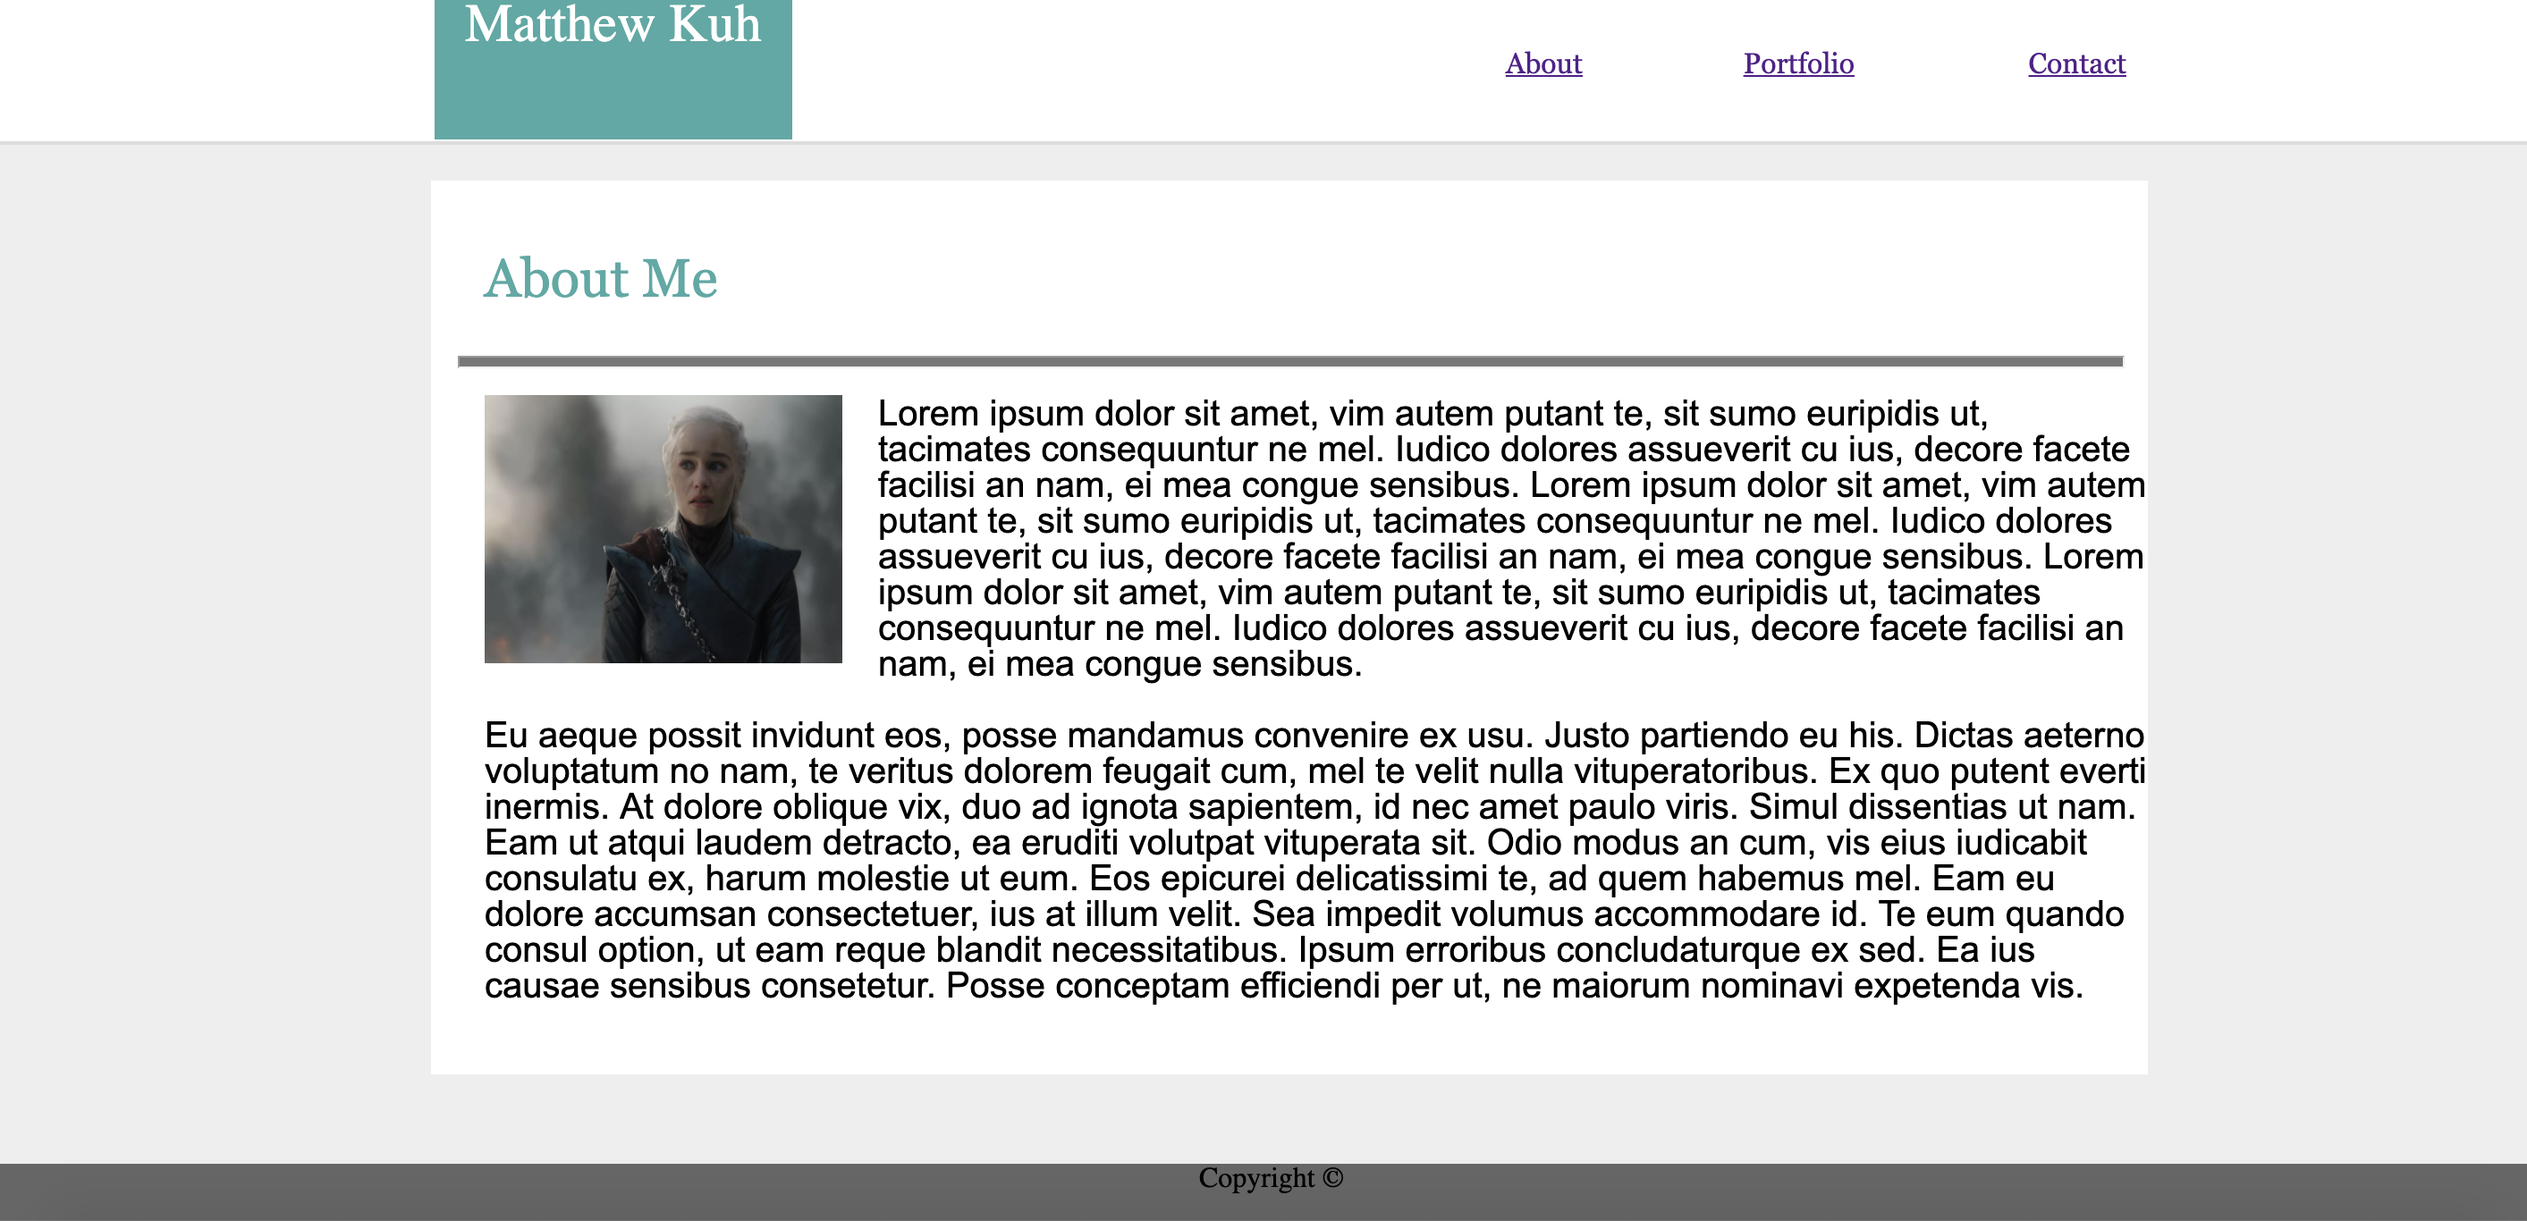
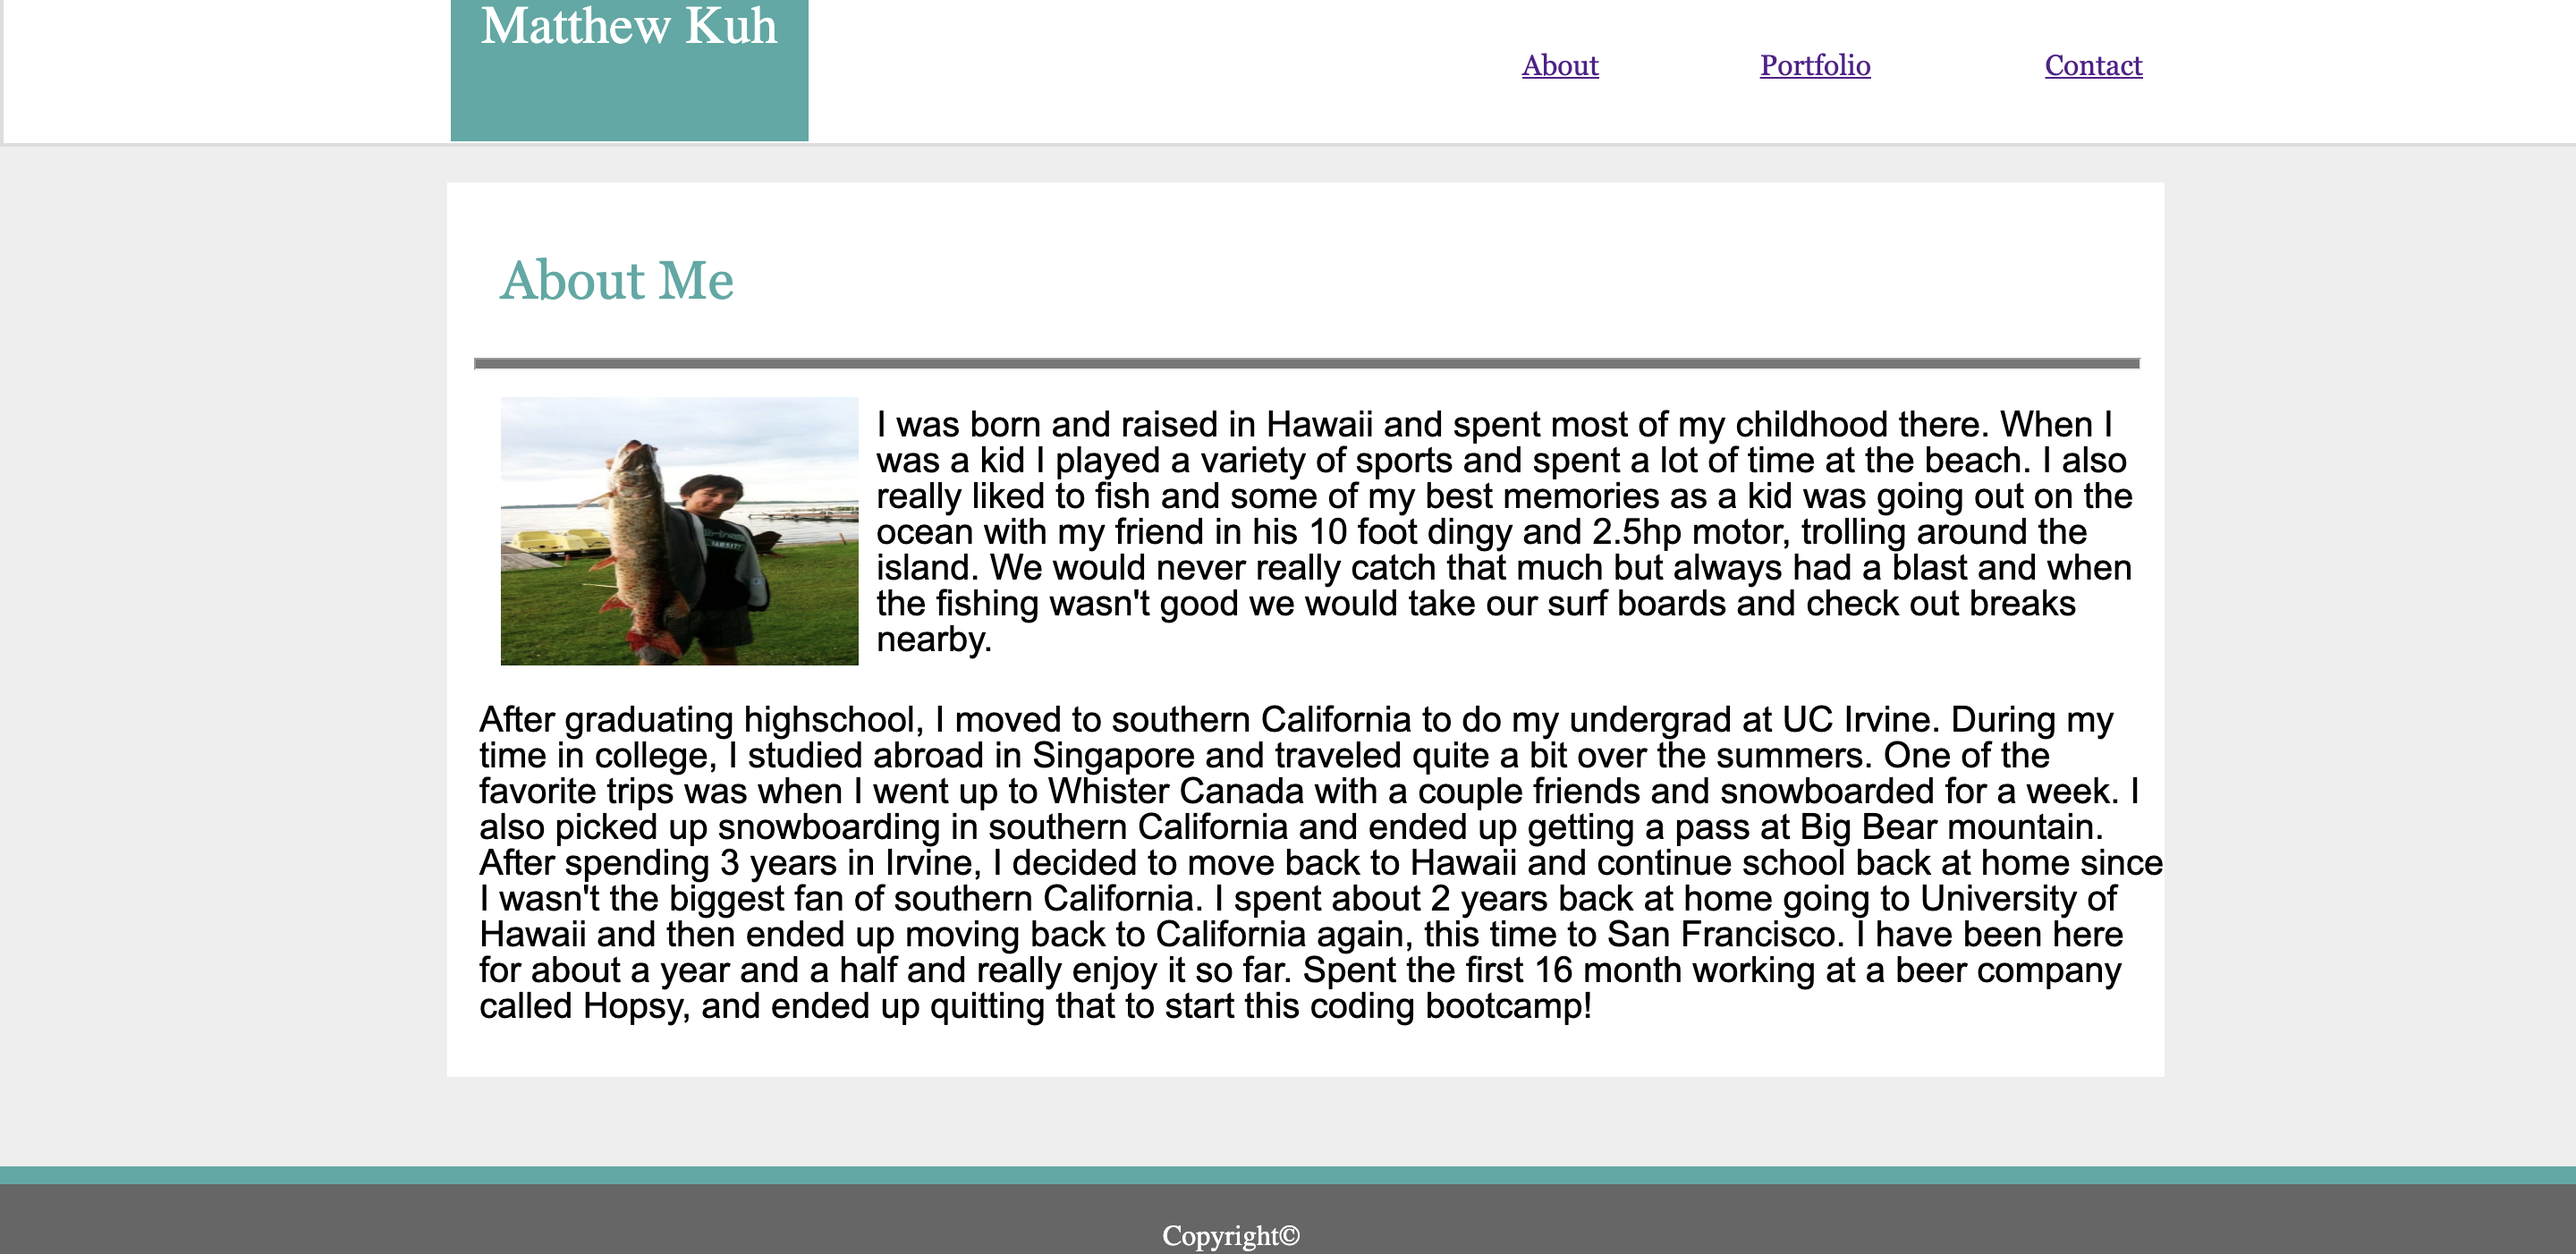
fix footer width

diff --git a/about.html b/about.html
@@ -51,7 +51,7 @@
         </p>  
 
         <p id="p2">
-            After graduating highschool, I moved to southern California to do my undergrad at UC Irvine.  During my time in college, I studied abroad in Singapore and traveled quite a bit over the summers.  One of the favorite trips was when I went up to Whister Canada with a couple friends and snowboarded for a week.  I also picked up snowboarding in southern California and ended up getting a pass at Big Bear mountain.  After spending 3 years in Irvine, I decided to move back to Hawaii and continue school back at home since I wasn't the biggest fan of southern California.  I spent about 2 years back at home going to University of Hawaii and then ended up moving back to California again, this time to San Francisco.  I have been here for about a year and a half and really enjoy it so far.  Spent the first 16 month working at a beer company called Hopsy, and ended up quitting that to start this coding bootcamp!
+            After graduating highschool, I moved to southern California to do my undergrad at UC Irvine.  During my time in college, I studied abroad in Singapore and traveled quite a bit over the summers.  One of my favorite trips was when I went up to Whister Canada with a couple friends and snowboarded for a week.  I also picked up snowboarding in southern California and ended up getting a pass at Big Bear mountain.  After spending 3 years in Irvine, I decided to move back to Hawaii and continue school back at home since I wasn't the biggest fan of socal.  I spent about 2 years back at home going to University of Hawaii and then ended up moving back to California again, this time to San Francisco.  I have been here for about a year and a half and really enjoy it so far.  Spent the first 16 month working at a beer company called Hopsy, and ended up quitting that to start this coding bootcamp!
             
         </p>
 

diff --git a/profile.css b/profile.css
@@ -128,11 +128,12 @@ img {
     font-size: 20px;
     position: absolute;
     top: 290px;
-    left: 18px;
+    left: 15px;
 }
 #copyright {
+    margin: 0 auto;
     margin-top: 50px;
-    width: 100%;
+    width: 106%;
     height: 50px;
     background: #666666;
     position: relative;
@@ -189,11 +190,12 @@ img {
     position: relative;
 }
 #bottomline {
+    margin: 0 auto;
     background: #4aaaa5;
-    padding: 5px;
     position: absolute;
     z-index: 2;
     width: 100%;
+    height: 10px;
 }
 #cptext {
     position: absolute;

diff --git a/README.md b/README.md
@@ -1,1 +1,16 @@
-# Basic-Portfolio
+<img src="Portfolio Screenshot.png" width="600" height="400">
+
+I made a basic portfolio page with an about, portfolio, and contact section.
+
+Tech I Used
+
+[HTML](https://www.w3schools.com/html/html_intro.asp)
+
+[CSS](https://www.w3schools.com/html/html_css.asp)
+
+Author : [Matthew Kuh](https://github.com/matkuh)
+
+
+
+
+
